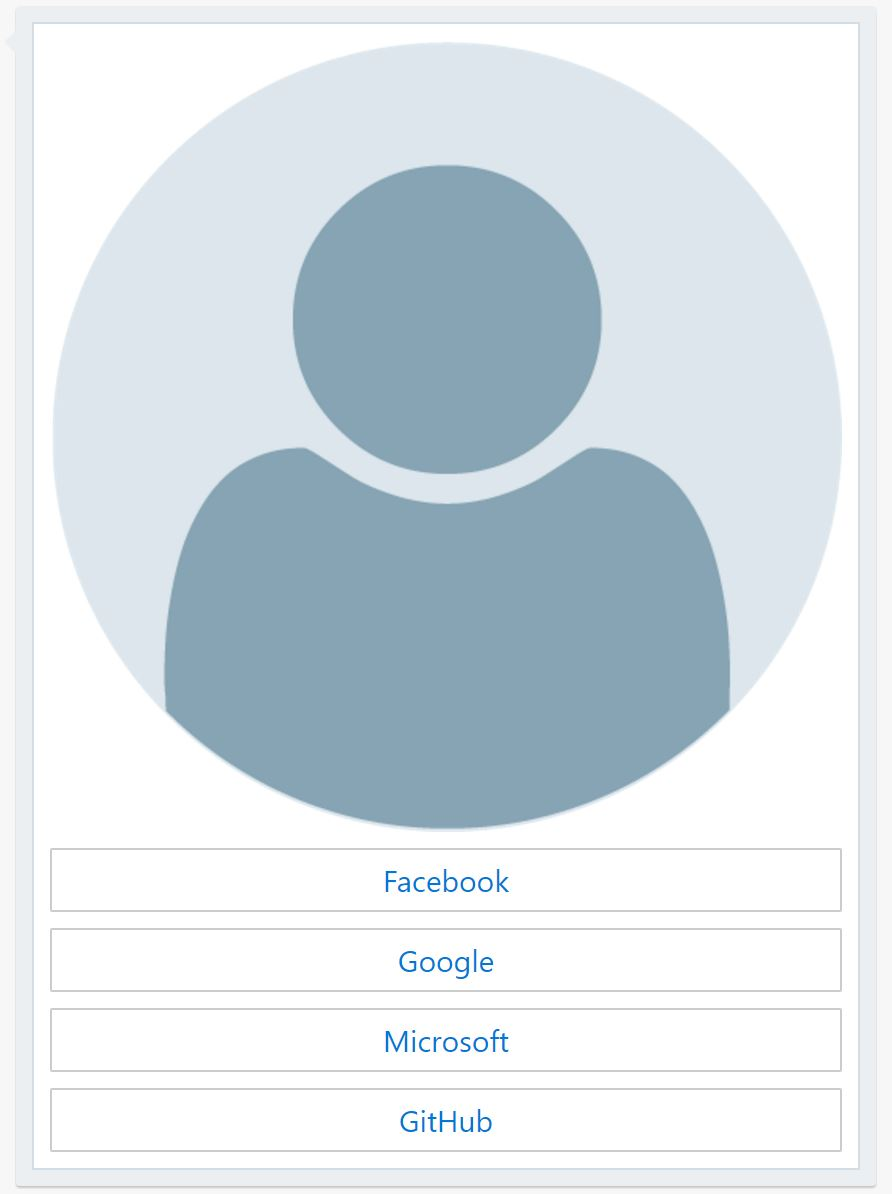
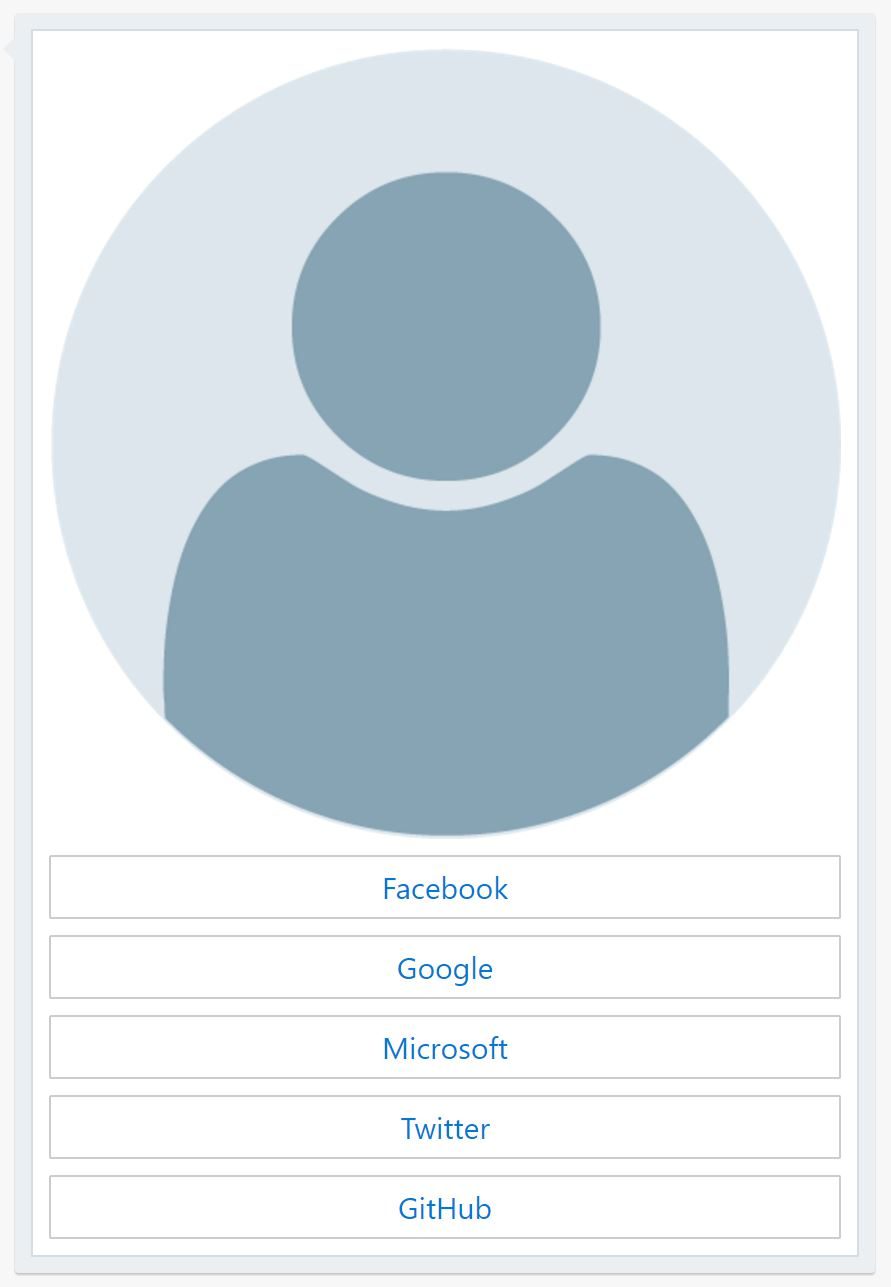
flip order of providers in cards

diff --git a/src/BotAuthenticationMiddleware.ts b/src/BotAuthenticationMiddleware.ts
@@ -49,6 +49,11 @@ export class BotAuthenticationMiddleware implements Middleware {
 		this.initializeServerMiddleware();
 		this.initializeEnvironmentVariables();
 		this.initializeRedirectEndpoints();
+		this.authData = {
+			selectedProvider: ProviderType.Facebook,
+			currentAccessToken: '',
+			currentProfile: null
+		}
 	};
 
 	//---------------------------------------- CONVERSATIONAL LOGIC -------------------------------------------//
@@ -366,8 +371,8 @@ export class BotAuthenticationMiddleware implements Middleware {
 		if (this.authenticationConfig.facebook) authorizationUris.push({ provider: ProviderType.Facebook, authorizationUri: `${this.baseUrl}/auth/facebook` });
 		if (this.authenticationConfig.google) authorizationUris.push({ provider: ProviderType.Google, authorizationUri: `${this.baseUrl}/auth/google` });
 		if (this.authenticationConfig.azureADv2) authorizationUris.push({ provider: ProviderType.AzureADv2, authorizationUri: `${this.baseUrl}/auth/azureADv2` });
-		if (this.authenticationConfig.github) authorizationUris.push({ provider: ProviderType.Github, authorizationUri: `${this.baseUrl}/auth/github` });
 		if (this.authenticationConfig.twitter) authorizationUris.push({ provider: ProviderType.Twitter, authorizationUri: `${this.baseUrl}/auth/twitter` });
+		if (this.authenticationConfig.github) authorizationUris.push({ provider: ProviderType.Github, authorizationUri: `${this.baseUrl}/auth/github` });
 		return authorizationUris;
 	};
 

diff --git a/src/samples/typescript/basicExpress.ts b/src/samples/typescript/basicExpress.ts
@@ -31,7 +31,7 @@ const authenticationConfig: BotAuthenticationConfiguration = {
 		return state.authData;
 	},
 	onLoginSuccess: async (context: TurnContext, accessToken: string, profile: any, provider: ProviderType): Promise<void> => {
-		//the middleware passes over the access token retrieved for the user
+		//the middleware passes over the access token and profile retrieved for the user
 		const state: StoreItem = conversationState.get(context) as StoreItem;
 		state.authData = { accessToken, profile, provider };
 		await context.sendActivity(`You're logged in!`);

diff --git a/src/samples/typescript/basicRestify.ts b/src/samples/typescript/basicRestify.ts
@@ -35,7 +35,7 @@ const authenticationConfig: BotAuthenticationConfiguration = {
 		return state.authData;
 	},
 	onLoginSuccess: async (context: TurnContext, accessToken: string, profile: any, provider: ProviderType): Promise<void> => {
-		//the middleware passes over the access token retrieved for the user
+		//the middleware passes over the access token and profile retrieved for the user
 		const state: StoreItem = conversationState.get(context) as StoreItem;
 		state.authData = { accessToken, profile, provider };
 		await context.sendActivity(`You're logged in!`);

diff --git a/src/samples/javascript/basicExpress.js b/src/samples/javascript/basicExpress.js
@@ -31,7 +31,7 @@ const authenticationConfig = {
 		return state.authData;
 	},
 	onLoginSuccess: async (context, accessToken, profile, provider) => {
-		//the middleware passes over the access token retrieved for the user
+		//the middleware passes over the access token and profile retrieved for the user
 		const state = conversationState.get(context);
 		state.authData = { accessToken, profile, provider };
 		await context.sendActivity(`You're logged in!`);

diff --git a/src/samples/javascript/basicRestify.js b/src/samples/javascript/basicRestify.js
@@ -35,7 +35,7 @@ const authenticationConfig = {
 		return state.authData;
 	},
 	onLoginSuccess: async (context, accessToken, profile, provider) => {
-		//the middleware passes over the access token retrieved for the user
+		//the middleware passes over the access token and profile retrieved for the user
 		const state = conversationState.get(context);
 		state.authData = { accessToken, profile, provider };
 		await context.sendActivity(`You're logged in!`);

diff --git a/README.md b/README.md
@@ -52,10 +52,10 @@ const authenticationConfig = {
 		const state = conversationState.get(context);
 		return state.authData;
 	},
-	onLoginSuccess: async (context, accessToken, provider) => {
-		//the middleware passes over the access token retrieved for the user
+	onLoginSuccess: async (context, accessToken, profile, provider) => {
+		//the middleware passes over the access token and profile retrieved for the user
 		const state = conversationState.get(context);
-		state.authData = { accessToken, provider };
+		state.authData = { accessToken, profile, provider };
 		await context.sendActivity(`You're logged in!`);
 	},
 	facebook: {
@@ -239,7 +239,7 @@ const authenticationConfig = {
 		return state.authData;
 	},
 	onLoginSuccess: async (context, accessToken, provider) => {
-		//the middleware passes over the access token retrieved for the user
+		//the middleware passes over the access token and profile retrieved for the user
 		const state = conversationState.get(context);
 		state.authData = { accessToken, provider };
 		await context.sendActivity(`You're logged in!`);
@@ -382,7 +382,7 @@ const authenticationConfig = {
 		return state.authData;
 	},
 	onLoginSuccess: async (context, accessToken, provider) => {
-		//the middleware passes over the access token retrieved for the user
+		//the middleware passes over the access token and profile retrieved for the user
 		const state = conversationState.get(context);
 		state.authData = { accessToken, provider };
 		await context.sendActivity(`You're logged in!`);
